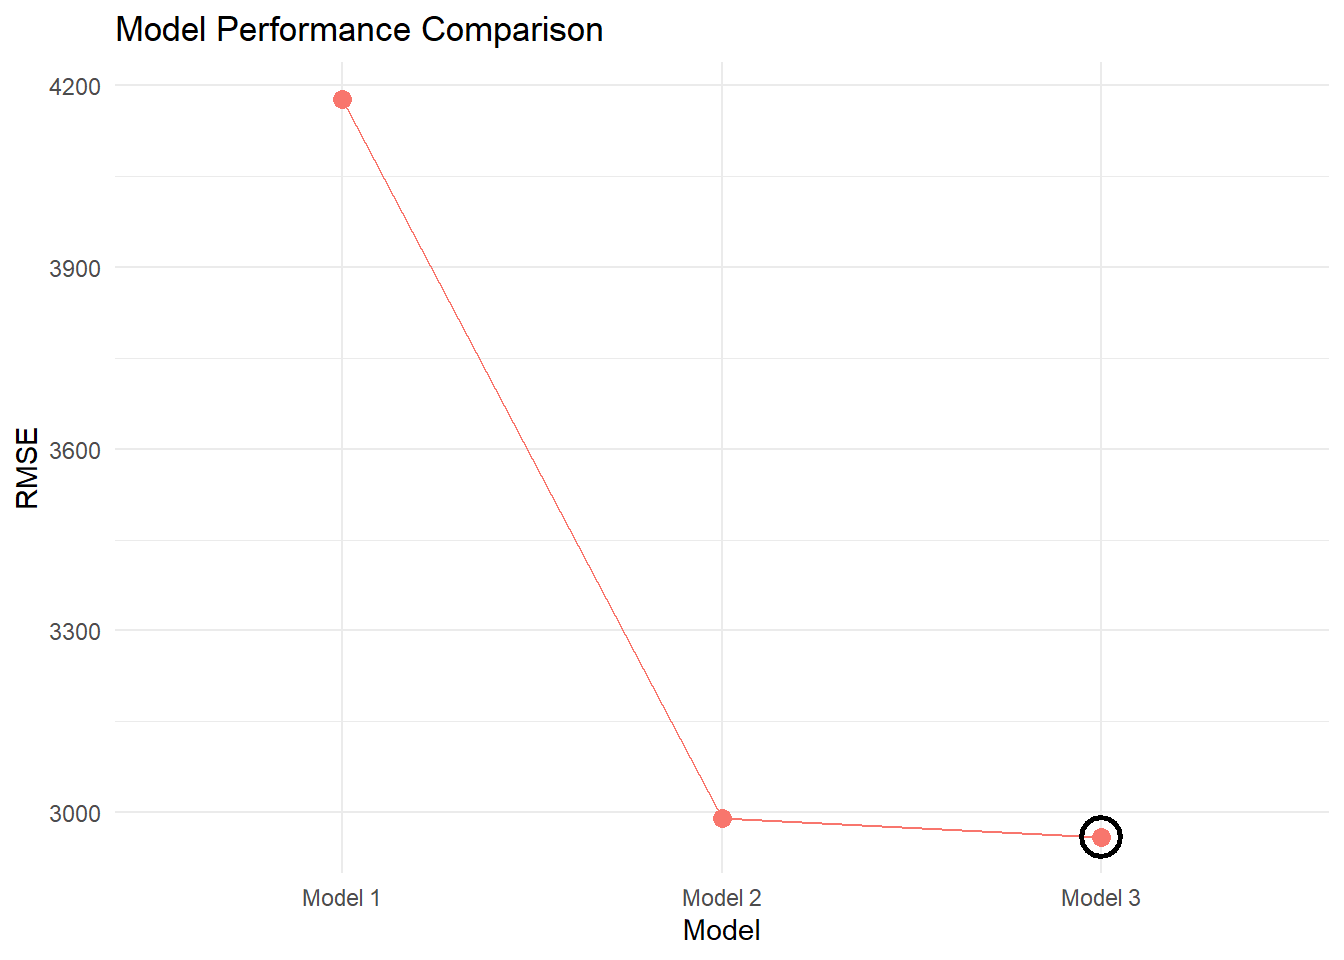
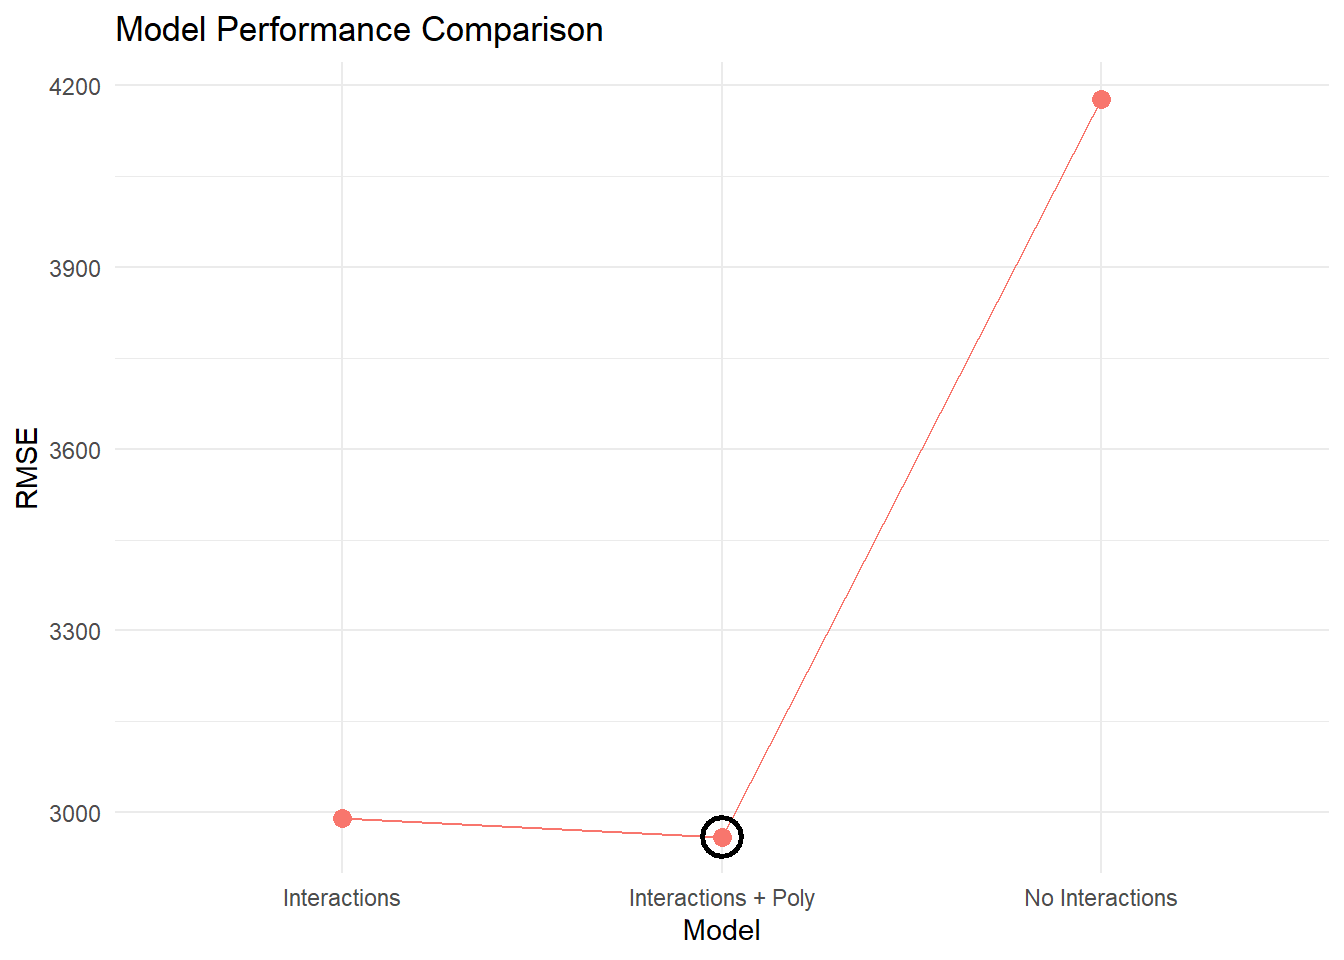
added narrative

diff --git a/HW8.html b/HW8.html
@@ -91,7 +91,7 @@ pre > code.sourceCode > span > a:first-child::before { text-decoration: underlin
   <li><a href="#summary-statistics" id="toc-summary-statistics" class="nav-link" data-scroll-target="#summary-statistics">Summary Statistics</a></li>
   <li><a href="#subset-on-functioning-days" id="toc-subset-on-functioning-days" class="nav-link" data-scroll-target="#subset-on-functioning-days">Subset on Functioning Days</a></li>
   <li><a href="#summarize-across-the-hours" id="toc-summarize-across-the-hours" class="nav-link" data-scroll-target="#summarize-across-the-hours">Summarize Across the Hours</a></li>
-  <li><a href="#recreate-basic-summary-stats-and-correlations" id="toc-recreate-basic-summary-stats-and-correlations" class="nav-link" data-scroll-target="#recreate-basic-summary-stats-and-correlations">Recreate Basic Summary Stats and Correlations</a></li>
+  <li><a href="#basic-summary-stats-and-correlations" id="toc-basic-summary-stats-and-correlations" class="nav-link" data-scroll-target="#basic-summary-stats-and-correlations">Basic Summary Stats and Correlations</a></li>
   <li><a href="#visual" id="toc-visual" class="nav-link" data-scroll-target="#visual">Visual</a></li>
   </ul></li>
   <li><a href="#split-data" id="toc-split-data" class="nav-link" data-scroll-target="#split-data">Split Data</a></li>
@@ -141,6 +141,7 @@ pre > code.sourceCode > span > a:first-child::before { text-decoration: underlin
 </div>
 <section id="read-data" class="level2">
 <h2 class="anchored" data-anchor-id="read-data">Read Data</h2>
+<p>The SeoulBikeData.csv contains characters not encoded in UTF-8 (the default encoding in readr). Because of this, we specify the encoding as latin1.</p>
 <div class="cell">
 <div class="sourceCode cell-code" id="cb2"><pre class="sourceCode r code-with-copy"><code class="sourceCode r"><span id="cb2-1"><a href="#cb2-1" aria-hidden="true" tabindex="-1"></a>data <span class="ot">&lt;-</span> <span class="fu">read_csv</span>(<span class="st">"SeoulBikeData.csv"</span>, <span class="at">locale=</span><span class="fu">locale</span>(<span class="at">encoding=</span><span class="st">"latin1"</span>))</span></code><button title="Copy to Clipboard" class="code-copy-button"><i class="bi"></i></button></pre></div>
 </div>
@@ -149,6 +150,7 @@ pre > code.sourceCode > span > a:first-child::before { text-decoration: underlin
 <h2 class="anchored" data-anchor-id="eda">EDA</h2>
 <section id="missing-values" class="level3">
 <h3 class="anchored" data-anchor-id="missing-values">Missing Values</h3>
+<p>First we check for missing values and luckily there are none to consider</p>
 <div class="cell">
 <div class="sourceCode cell-code" id="cb3"><pre class="sourceCode r code-with-copy"><code class="sourceCode r"><span id="cb3-1"><a href="#cb3-1" aria-hidden="true" tabindex="-1"></a><span class="fu">anyNA</span>(data)</span></code><button title="Copy to Clipboard" class="code-copy-button"><i class="bi"></i></button></pre></div>
 <div class="cell-output cell-output-stdout">
@@ -158,6 +160,7 @@ pre > code.sourceCode > span > a:first-child::before { text-decoration: underlin
 </section>
 <section id="check-columns" class="level3">
 <h3 class="anchored" data-anchor-id="check-columns">Check Columns</h3>
+<p>Check the columns and the unique levels of chatagorical variables.</p>
 <div class="cell">
 <div class="sourceCode cell-code" id="cb5"><pre class="sourceCode r code-with-copy"><code class="sourceCode r"><span id="cb5-1"><a href="#cb5-1" aria-hidden="true" tabindex="-1"></a><span class="fu">glimpse</span>(data)</span></code><button title="Copy to Clipboard" class="code-copy-button"><i class="bi"></i></button></pre></div>
 <div class="cell-output cell-output-stdout">
@@ -194,6 +197,7 @@ $ `Functioning Day`           &lt;chr&gt; "Yes", "Yes", "Yes", "Yes", "Yes", "Ye
 </section>
 <section id="convert-date-column" class="level3">
 <h3 class="anchored" data-anchor-id="convert-date-column">Convert Date Column</h3>
+<p>Using lubridate to convert the date column to a date object.</p>
 <div class="cell">
 <div class="sourceCode cell-code" id="cb13"><pre class="sourceCode r code-with-copy"><code class="sourceCode r"><span id="cb13-1"><a href="#cb13-1" aria-hidden="true" tabindex="-1"></a>data<span class="sc">$</span>Date <span class="ot">&lt;-</span> <span class="fu">dmy</span>(data<span class="sc">$</span>Date)</span></code><button title="Copy to Clipboard" class="code-copy-button"><i class="bi"></i></button></pre></div>
 </div>
@@ -248,6 +252,7 @@ $ functioning_day   &lt;fct&gt; Yes, Yes, Yes, Yes, Yes, Yes, Yes, Yes, Yes, Yes
 </section>
 <section id="summary-statistics" class="level3">
 <h3 class="anchored" data-anchor-id="summary-statistics">Summary Statistics</h3>
+<p>Reusable function for grouped sumary stats</p>
 <div class="cell">
 <div class="sourceCode cell-code" id="cb17"><pre class="sourceCode r code-with-copy"><code class="sourceCode r"><span id="cb17-1"><a href="#cb17-1" aria-hidden="true" tabindex="-1"></a><span class="fu">summary</span>(data)</span></code><button title="Copy to Clipboard" class="code-copy-button"><i class="bi"></i></button></pre></div>
 <div class="cell-output cell-output-stdout">
@@ -294,6 +299,8 @@ $ functioning_day   &lt;fct&gt; Yes, Yes, Yes, Yes, Yes, Yes, Yes, Yes, Yes, Yes
 <span id="cb19-12"><a href="#cb19-12" aria-hidden="true" tabindex="-1"></a>    knitr<span class="sc">::</span><span class="fu">kable</span>()</span>
 <span id="cb19-13"><a href="#cb19-13" aria-hidden="true" tabindex="-1"></a>}</span></code><button title="Copy to Clipboard" class="code-copy-button"><i class="bi"></i></button></pre></div>
 </div>
+<section id="grouped-by-catagorical-variables" class="level4">
+<h4 class="anchored" data-anchor-id="grouped-by-catagorical-variables">Grouped by Catagorical Variables</h4>
 <div class="cell">
 <div class="sourceCode cell-code" id="cb20"><pre class="sourceCode r code-with-copy"><code class="sourceCode r"><span id="cb20-1"><a href="#cb20-1" aria-hidden="true" tabindex="-1"></a><span class="fu">summarize_bike_rentals</span>(data, <span class="st">"season"</span>)</span></code><button title="Copy to Clipboard" class="code-copy-button"><i class="bi"></i></button></pre></div>
 <div class="cell-output-display">
@@ -396,6 +403,7 @@ $ functioning_day   &lt;fct&gt; Yes, Yes, Yes, Yes, Yes, Yes, Yes, Yes, Yes, Yes
 </table>
 </div>
 </div>
+<p>Note that the No Functioning Days have no statistics to report</p>
 <div class="cell">
 <div class="sourceCode cell-code" id="cb22"><pre class="sourceCode r code-with-copy"><code class="sourceCode r"><span id="cb22-1"><a href="#cb22-1" aria-hidden="true" tabindex="-1"></a><span class="fu">summarize_bike_rentals</span>(data, <span class="st">"functioning_day"</span>)</span></code><button title="Copy to Clipboard" class="code-copy-button"><i class="bi"></i></button></pre></div>
 <div class="cell-output-display">
@@ -440,6 +448,7 @@ $ functioning_day   &lt;fct&gt; Yes, Yes, Yes, Yes, Yes, Yes, Yes, Yes, Yes, Yes
 </div>
 </div>
 </section>
+</section>
 <section id="subset-on-functioning-days" class="level3">
 <h3 class="anchored" data-anchor-id="subset-on-functioning-days">Subset on Functioning Days</h3>
 <div class="cell">
@@ -448,6 +457,12 @@ $ functioning_day   &lt;fct&gt; Yes, Yes, Yes, Yes, Yes, Yes, Yes, Yes, Yes, Yes
 </section>
 <section id="summarize-across-the-hours" class="level3">
 <h3 class="anchored" data-anchor-id="summarize-across-the-hours">Summarize Across the Hours</h3>
+<ul>
+<li>Summarize across the hours so that each day has one observation associated with it.</li>
+<li>Group by the date, seasons, and holiday variables.</li>
+<li>Find the sum of the bike_count, rainfall, and snowfall variables</li>
+<li>Find the mean of all the weather related variables.</li>
+</ul>
 <div class="cell">
 <div class="sourceCode cell-code" id="cb24"><pre class="sourceCode r code-with-copy"><code class="sourceCode r"><span id="cb24-1"><a href="#cb24-1" aria-hidden="true" tabindex="-1"></a>daily_functioning_data <span class="ot">&lt;-</span> functioning_data <span class="sc">|&gt;</span></span>
 <span id="cb24-2"><a href="#cb24-2" aria-hidden="true" tabindex="-1"></a>  <span class="fu">group_by</span>(date, season, holiday) <span class="sc">|&gt;</span></span>
@@ -463,30 +478,35 @@ $ functioning_day   &lt;fct&gt; Yes, Yes, Yes, Yes, Yes, Yes, Yes, Yes, Yes, Yes
 <span id="cb24-12"><a href="#cb24-12" aria-hidden="true" tabindex="-1"></a>    <span class="at">avg_solar_radiation =</span> <span class="fu">mean</span>(solar_radiation),</span>
 <span id="cb24-13"><a href="#cb24-13" aria-hidden="true" tabindex="-1"></a>    <span class="at">.groups =</span> <span class="st">"drop"</span></span>
 <span id="cb24-14"><a href="#cb24-14" aria-hidden="true" tabindex="-1"></a>  )</span>
-<span id="cb24-15"><a href="#cb24-15" aria-hidden="true" tabindex="-1"></a>daily_functioning_data</span></code><button title="Copy to Clipboard" class="code-copy-button"><i class="bi"></i></button></pre></div>
+<span id="cb24-15"><a href="#cb24-15" aria-hidden="true" tabindex="-1"></a></span>
+<span id="cb24-16"><a href="#cb24-16" aria-hidden="true" tabindex="-1"></a><span class="fu">summary</span>(daily_functioning_data)</span></code><button title="Copy to Clipboard" class="code-copy-button"><i class="bi"></i></button></pre></div>
 <div class="cell-output cell-output-stdout">
-<pre><code># A tibble: 353 × 12
-   date       season holiday    total_bike_count total_rainfall total_snowfall
-   &lt;date&gt;     &lt;fct&gt;  &lt;fct&gt;                 &lt;dbl&gt;          &lt;dbl&gt;          &lt;dbl&gt;
- 1 2017-12-01 Winter No Holiday             9539            0              0  
- 2 2017-12-02 Winter No Holiday             8523            0              0  
- 3 2017-12-03 Winter No Holiday             7222            4              0  
- 4 2017-12-04 Winter No Holiday             8729            0.1            0  
- 5 2017-12-05 Winter No Holiday             8307            0              0  
- 6 2017-12-06 Winter No Holiday             6669            1.3            8.6
- 7 2017-12-07 Winter No Holiday             8549            0             10.4
- 8 2017-12-08 Winter No Holiday             8032            0              0  
- 9 2017-12-09 Winter No Holiday             7233            0              0  
-10 2017-12-10 Winter No Holiday             3453            4.1           32.5
-# ℹ 343 more rows
-# ℹ 6 more variables: avg_temperature &lt;dbl&gt;, avg_humidity &lt;dbl&gt;,
-#   avg_wind_speed &lt;dbl&gt;, avg_visibility &lt;dbl&gt;, avg_dew_point_temp &lt;dbl&gt;,
-#   avg_solar_radiation &lt;dbl&gt;</code></pre>
+<pre><code>      date               season         holiday    total_bike_count
+ Min.   :2017-12-01   Autumn:81   Holiday   : 17   Min.   :  977   
+ 1st Qu.:2018-02-27   Spring:90   No Holiday:336   1st Qu.: 6967   
+ Median :2018-05-28   Summer:92                    Median :18563   
+ Mean   :2018-05-28   Winter:90                    Mean   :17485   
+ 3rd Qu.:2018-08-24                                3rd Qu.:26285   
+ Max.   :2018-11-30                                Max.   :36149   
+ total_rainfall   total_snowfall   avg_temperature    avg_humidity  
+ Min.   : 0.000   Min.   : 0.000   Min.   :-14.738   Min.   :22.25  
+ 1st Qu.: 0.000   1st Qu.: 0.000   1st Qu.:  3.304   1st Qu.:47.58  
+ Median : 0.000   Median : 0.000   Median : 13.738   Median :57.17  
+ Mean   : 3.576   Mean   : 1.863   Mean   : 12.776   Mean   :58.17  
+ 3rd Qu.: 0.500   3rd Qu.: 0.000   3rd Qu.: 22.592   3rd Qu.:67.71  
+ Max.   :95.500   Max.   :78.700   Max.   : 33.742   Max.   :95.88  
+ avg_wind_speed   avg_visibility   avg_dew_point_temp avg_solar_radiation
+ Min.   :0.6625   Min.   : 214.3   Min.   :-27.750    Min.   :0.02917    
+ 1st Qu.:1.3042   1st Qu.:1087.0   1st Qu.: -5.188    1st Qu.:0.28333    
+ Median :1.6583   Median :1557.8   Median :  4.612    Median :0.56500    
+ Mean   :1.7261   Mean   :1434.0   Mean   :  3.954    Mean   :0.56773    
+ 3rd Qu.:1.9542   3rd Qu.:1874.3   3rd Qu.: 14.921    3rd Qu.:0.82000    
+ Max.   :4.0000   Max.   :2000.0   Max.   : 25.038    Max.   :1.21667    </code></pre>
 </div>
 </div>
 </section>
-<section id="recreate-basic-summary-stats-and-correlations" class="level3">
-<h3 class="anchored" data-anchor-id="recreate-basic-summary-stats-and-correlations">Recreate Basic Summary Stats and Correlations</h3>
+<section id="basic-summary-stats-and-correlations" class="level3">
+<h3 class="anchored" data-anchor-id="basic-summary-stats-and-correlations">Basic Summary Stats and Correlations</h3>
 <div class="cell">
 <div class="sourceCode cell-code" id="cb26"><pre class="sourceCode r code-with-copy"><code class="sourceCode r"><span id="cb26-1"><a href="#cb26-1" aria-hidden="true" tabindex="-1"></a><span class="fu">summary</span>(daily_functioning_data<span class="sc">$</span>total_bike_count)</span></code><button title="Copy to Clipboard" class="code-copy-button"><i class="bi"></i></button></pre></div>
 <div class="cell-output cell-output-stdout">
@@ -642,6 +662,7 @@ $ functioning_day   &lt;fct&gt; Yes, Yes, Yes, Yes, Yes, Yes, Yes, Yes, Yes, Yes
 </section>
 <section id="visual" class="level3">
 <h3 class="anchored" data-anchor-id="visual">Visual</h3>
+<p>Since Average temperature is the most highly correlated with Bike rentals, let’s plot it and have a look.</p>
 <div class="cell">
 <div class="sourceCode cell-code" id="cb29"><pre class="sourceCode r code-with-copy"><code class="sourceCode r"><span id="cb29-1"><a href="#cb29-1" aria-hidden="true" tabindex="-1"></a><span class="fu">ggplot</span>(daily_functioning_data, </span>
 <span id="cb29-2"><a href="#cb29-2" aria-hidden="true" tabindex="-1"></a>       <span class="fu">aes</span>(<span class="at">x =</span> avg_temperature, </span>
@@ -665,7 +686,7 @@ $ functioning_day   &lt;fct&gt; Yes, Yes, Yes, Yes, Yes, Yes, Yes, Yes, Yes, Yes
 </section>
 <section id="split-data" class="level2">
 <h2 class="anchored" data-anchor-id="split-data">Split Data</h2>
-<p><em>Note: It was mentioned in the lecture that this might be done before our EDA, but here we are following the guidelines set in the assignment.</em></p>
+<p><em>Note: It was mentioned in the lecture that this might be done before our EDA to avoid the potential of involving our test set. Here we are following the guidelines set in the assignment.</em></p>
 <div class="cell">
 <div class="sourceCode cell-code" id="cb30"><pre class="sourceCode r code-with-copy"><code class="sourceCode r"><span id="cb30-1"><a href="#cb30-1" aria-hidden="true" tabindex="-1"></a>data_split <span class="ot">&lt;-</span> <span class="fu">initial_split</span>(daily_functioning_data, </span>
 <span id="cb30-2"><a href="#cb30-2" aria-hidden="true" tabindex="-1"></a>                            <span class="at">prop =</span> <span class="fl">0.75</span>, </span>
@@ -700,8 +721,8 @@ $ functioning_day   &lt;fct&gt; Yes, Yes, Yes, Yes, Yes, Yes, Yes, Yes, Yes, Yes
 <h3 class="anchored" data-anchor-id="recipes-preprocessing">Recipes (preprocessing)</h3>
 <section id="recipe-1" class="level4">
 <h4 class="anchored" data-anchor-id="recipe-1">Recipe 1</h4>
-<p>The addition of the weekday/weekend factor in the recipe is causing considerable trouble. Here we will go step by step to show my steps to address the issue. I found this very helpful to better understand what is happening.</p>
-<p>The matter at hand was simply errors involving column names. “dow” for instance was created as “date_dow”. And the date_dow values were three letter abbreviations for the days.</p>
+<p>The addition of the weekday/weekend factor in the recipe is causing considerable trouble. Here we will go step by step to show my steps to address the issue. I found this very helpful in understand how the recipe is being constructed.</p>
+<p>The matter at hand was simply errors involving column names. “dow” for instance was created as “date_dow”. And the date_dow values were three letter abbreviations for the days. The errors have been identified and removed for this assignement.</p>
 <div class="cell">
 <div class="sourceCode cell-code" id="cb32"><pre class="sourceCode r code-with-copy"><code class="sourceCode r"><span id="cb32-1"><a href="#cb32-1" aria-hidden="true" tabindex="-1"></a>show_glimpse <span class="ot">&lt;-</span> <span class="cf">function</span>(recipe) {</span>
 <span id="cb32-2"><a href="#cb32-2" aria-hidden="true" tabindex="-1"></a>  recipe <span class="sc">|&gt;</span> </span>
@@ -974,6 +995,7 @@ Computational engine: lm </code></pre>
 </section>
 <section id="workflows" class="level3">
 <h3 class="anchored" data-anchor-id="workflows">Workflows</h3>
+<p>We need to send each recipe through the workflow to get the results.</p>
 <div class="cell">
 <div class="sourceCode cell-code" id="cb60"><pre class="sourceCode r code-with-copy"><code class="sourceCode r"><span id="cb60-1"><a href="#cb60-1" aria-hidden="true" tabindex="-1"></a>workflow_and_results <span class="ot">&lt;-</span> <span class="cf">function</span>(recipe) {</span>
 <span id="cb60-2"><a href="#cb60-2" aria-hidden="true" tabindex="-1"></a>  workflow <span class="ot">&lt;-</span> <span class="fu">workflow</span>() <span class="sc">|&gt;</span></span>
@@ -1008,9 +1030,9 @@ There were issues with some computations   A: x1</code></pre>
 </div>
 <div class="cell">
 <div class="sourceCode cell-code" id="cb66"><pre class="sourceCode r code-with-copy"><code class="sourceCode r"><span id="cb66-1"><a href="#cb66-1" aria-hidden="true" tabindex="-1"></a>all_results <span class="ot">&lt;-</span> <span class="fu">bind_rows</span>(</span>
-<span id="cb66-2"><a href="#cb66-2" aria-hidden="true" tabindex="-1"></a>  results1 <span class="sc">|&gt;</span> <span class="fu">collect_metrics</span>() <span class="sc">|&gt;</span> <span class="fu">mutate</span>(<span class="at">model =</span> <span class="st">"Model 1"</span>),</span>
-<span id="cb66-3"><a href="#cb66-3" aria-hidden="true" tabindex="-1"></a>  results2 <span class="sc">|&gt;</span> <span class="fu">collect_metrics</span>() <span class="sc">|&gt;</span> <span class="fu">mutate</span>(<span class="at">model =</span> <span class="st">"Model 2"</span>),</span>
-<span id="cb66-4"><a href="#cb66-4" aria-hidden="true" tabindex="-1"></a>  results3 <span class="sc">|&gt;</span> <span class="fu">collect_metrics</span>() <span class="sc">|&gt;</span> <span class="fu">mutate</span>(<span class="at">model =</span> <span class="st">"Model 3"</span>)</span>
+<span id="cb66-2"><a href="#cb66-2" aria-hidden="true" tabindex="-1"></a>  results1 <span class="sc">|&gt;</span> <span class="fu">collect_metrics</span>() <span class="sc">|&gt;</span> <span class="fu">mutate</span>(<span class="at">model =</span> <span class="st">"No Interactions"</span>),</span>
+<span id="cb66-3"><a href="#cb66-3" aria-hidden="true" tabindex="-1"></a>  results2 <span class="sc">|&gt;</span> <span class="fu">collect_metrics</span>() <span class="sc">|&gt;</span> <span class="fu">mutate</span>(<span class="at">model =</span> <span class="st">"Interactions"</span>),</span>
+<span id="cb66-4"><a href="#cb66-4" aria-hidden="true" tabindex="-1"></a>  results3 <span class="sc">|&gt;</span> <span class="fu">collect_metrics</span>() <span class="sc">|&gt;</span> <span class="fu">mutate</span>(<span class="at">model =</span> <span class="st">"Interactions + Poly"</span>)</span>
 <span id="cb66-5"><a href="#cb66-5" aria-hidden="true" tabindex="-1"></a>)</span>
 <span id="cb66-6"><a href="#cb66-6" aria-hidden="true" tabindex="-1"></a></span>
 <span id="cb66-7"><a href="#cb66-7" aria-hidden="true" tabindex="-1"></a><span class="fu">ggplot</span>(all_results, <span class="fu">aes</span>(<span class="at">x =</span> model, <span class="at">y =</span> mean, <span class="at">group =</span> .metric, <span class="at">color =</span> .metric)) <span class="sc">+</span></span>
@@ -1033,6 +1055,7 @@ There were issues with some computations   A: x1</code></pre>
 </section>
 <section id="fit-best-model" class="level2">
 <h2 class="anchored" data-anchor-id="fit-best-model">Fit Best Model</h2>
+<p>The model with interactions and polynomial terms had the minimum RMSE amongst the three tested. With this we will fit that model to the entire training data set.</p>
 <div class="cell">
 <div class="sourceCode cell-code" id="cb67"><pre class="sourceCode r code-with-copy"><code class="sourceCode r"><span id="cb67-1"><a href="#cb67-1" aria-hidden="true" tabindex="-1"></a>final_workflow <span class="ot">&lt;-</span> <span class="fu">workflow</span>() <span class="sc">|&gt;</span></span>
 <span id="cb67-2"><a href="#cb67-2" aria-hidden="true" tabindex="-1"></a>  <span class="fu">add_recipe</span>(recipe3) <span class="sc">|&gt;</span></span>
@@ -1040,6 +1063,7 @@ There were issues with some computations   A: x1</code></pre>
 <span id="cb67-4"><a href="#cb67-4" aria-hidden="true" tabindex="-1"></a></span>
 <span id="cb67-5"><a href="#cb67-5" aria-hidden="true" tabindex="-1"></a>final_fit <span class="ot">&lt;-</span> <span class="fu">last_fit</span>(final_workflow, <span class="at">split =</span> data_split)</span></code><button title="Copy to Clipboard" class="code-copy-button"><i class="bi"></i></button></pre></div>
 </div>
+<p>Compute the RMSE metric on the test set.</p>
 <div class="cell">
 <div class="sourceCode cell-code" id="cb68"><pre class="sourceCode r code-with-copy"><code class="sourceCode r"><span id="cb68-1"><a href="#cb68-1" aria-hidden="true" tabindex="-1"></a>test_metrics <span class="ot">&lt;-</span> final_fit <span class="sc">|&gt;</span> <span class="fu">collect_metrics</span>()</span>
 <span id="cb68-2"><a href="#cb68-2" aria-hidden="true" tabindex="-1"></a>test_metrics</span></code><button title="Copy to Clipboard" class="code-copy-button"><i class="bi"></i></button></pre></div>
@@ -1051,6 +1075,7 @@ There were issues with some computations   A: x1</code></pre>
 2 rsq     standard       0.919 Preprocessor1_Model1</code></pre>
 </div>
 </div>
+<p>Obtain the final model (fit on the entire training set) coefficient table</p>
 <div class="cell">
 <div class="sourceCode cell-code" id="cb70"><pre class="sourceCode r code-with-copy"><code class="sourceCode r"><span id="cb70-1"><a href="#cb70-1" aria-hidden="true" tabindex="-1"></a>final_coefficients <span class="ot">&lt;-</span> final_fit <span class="sc">|&gt;</span> </span>
 <span id="cb70-2"><a href="#cb70-2" aria-hidden="true" tabindex="-1"></a>  <span class="fu">extract_fit_parsnip</span>() <span class="sc">|&gt;</span> </span>
